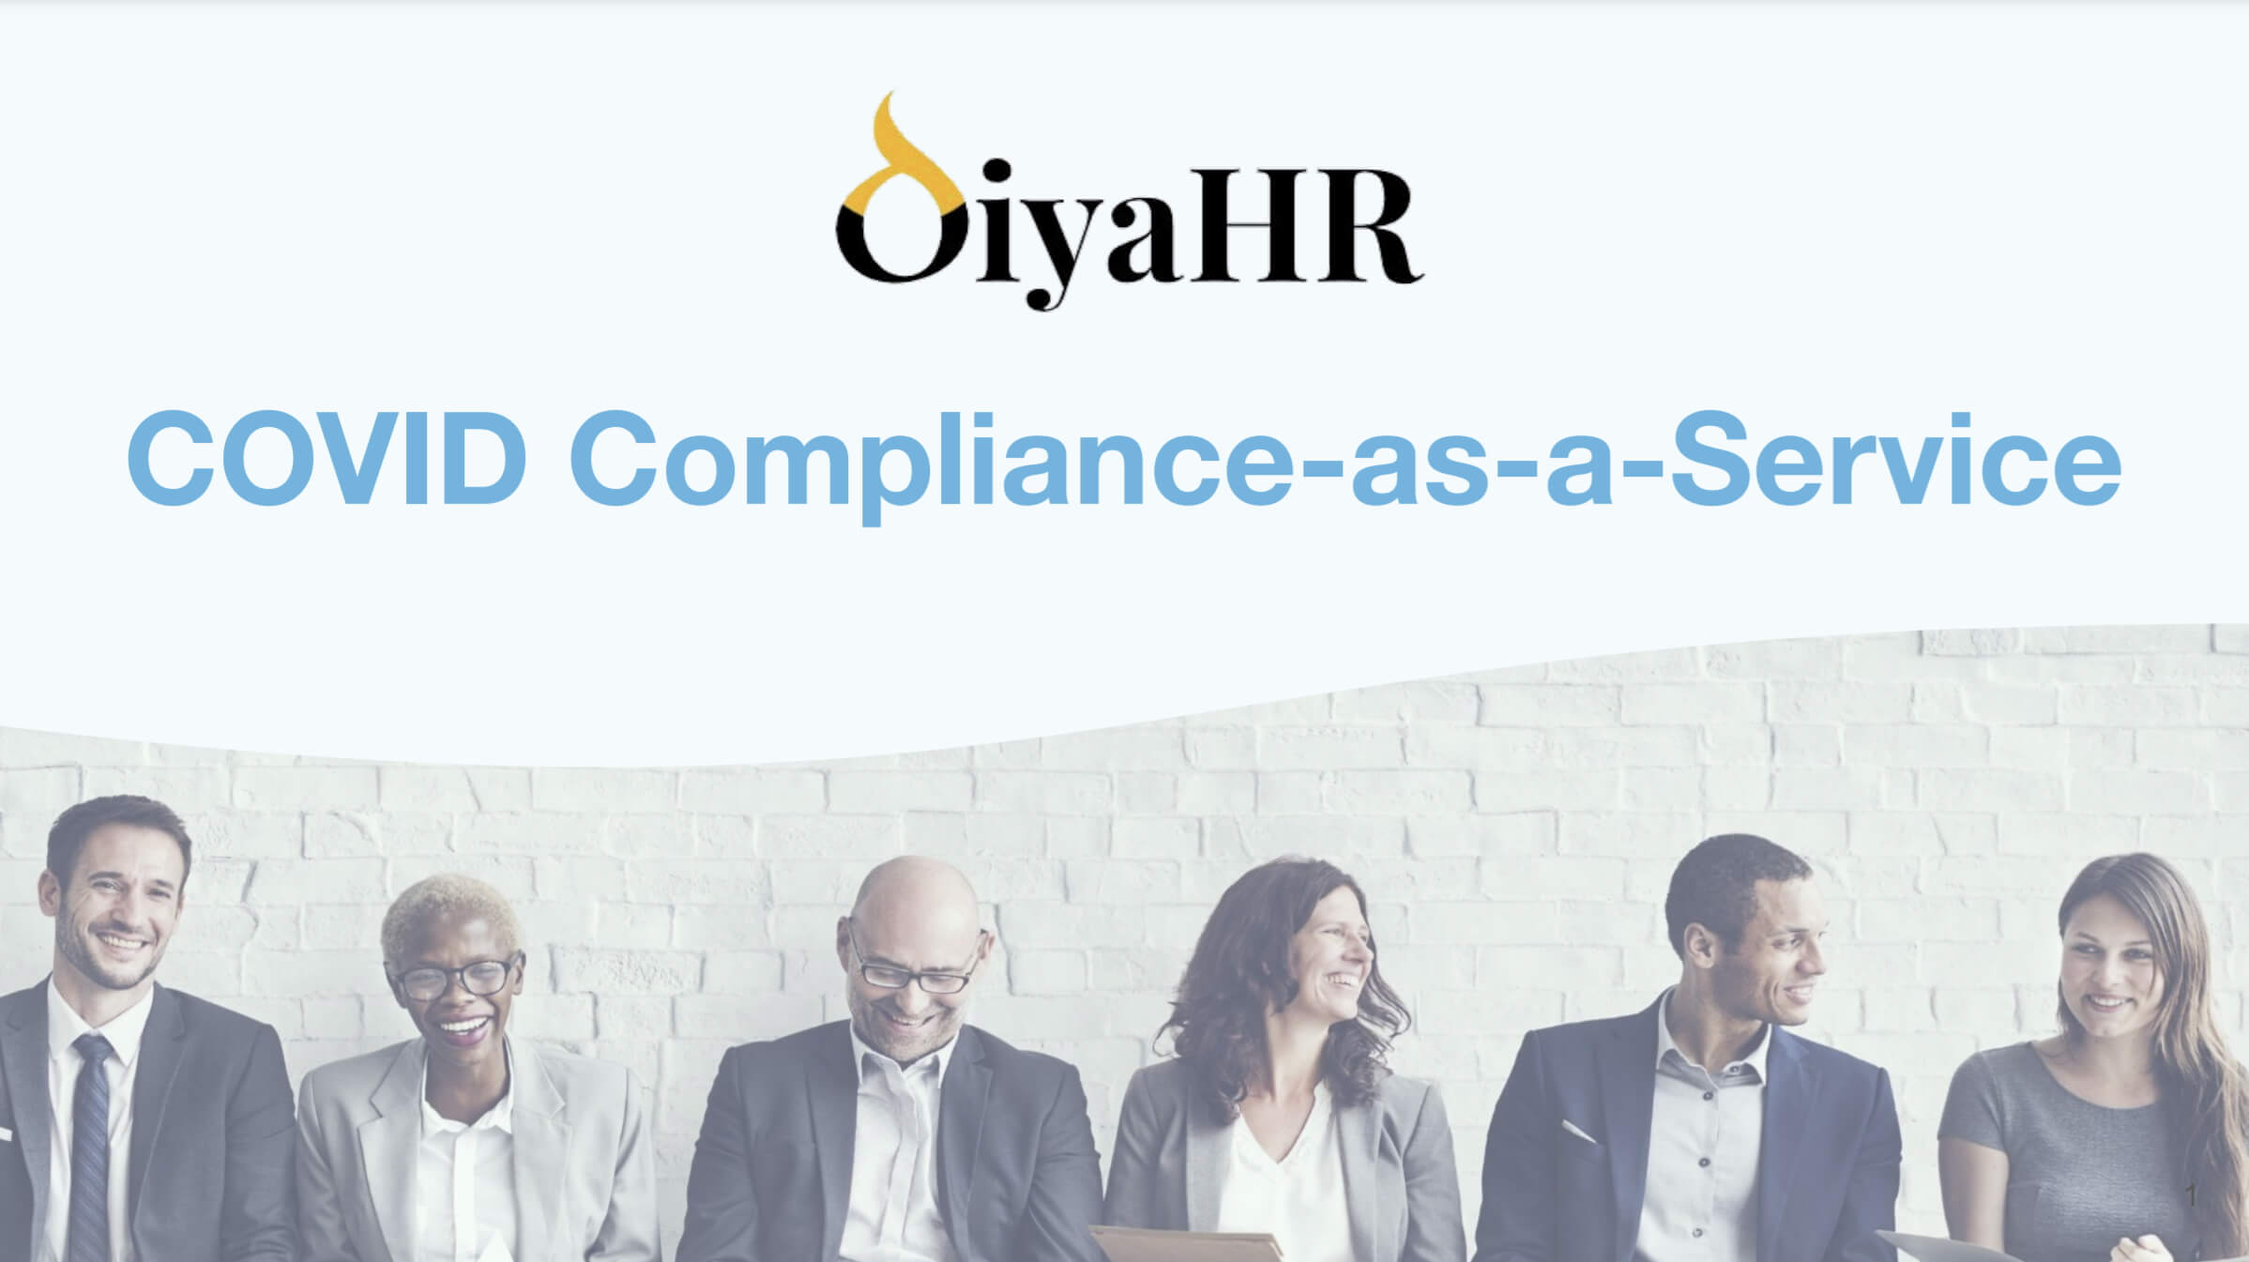
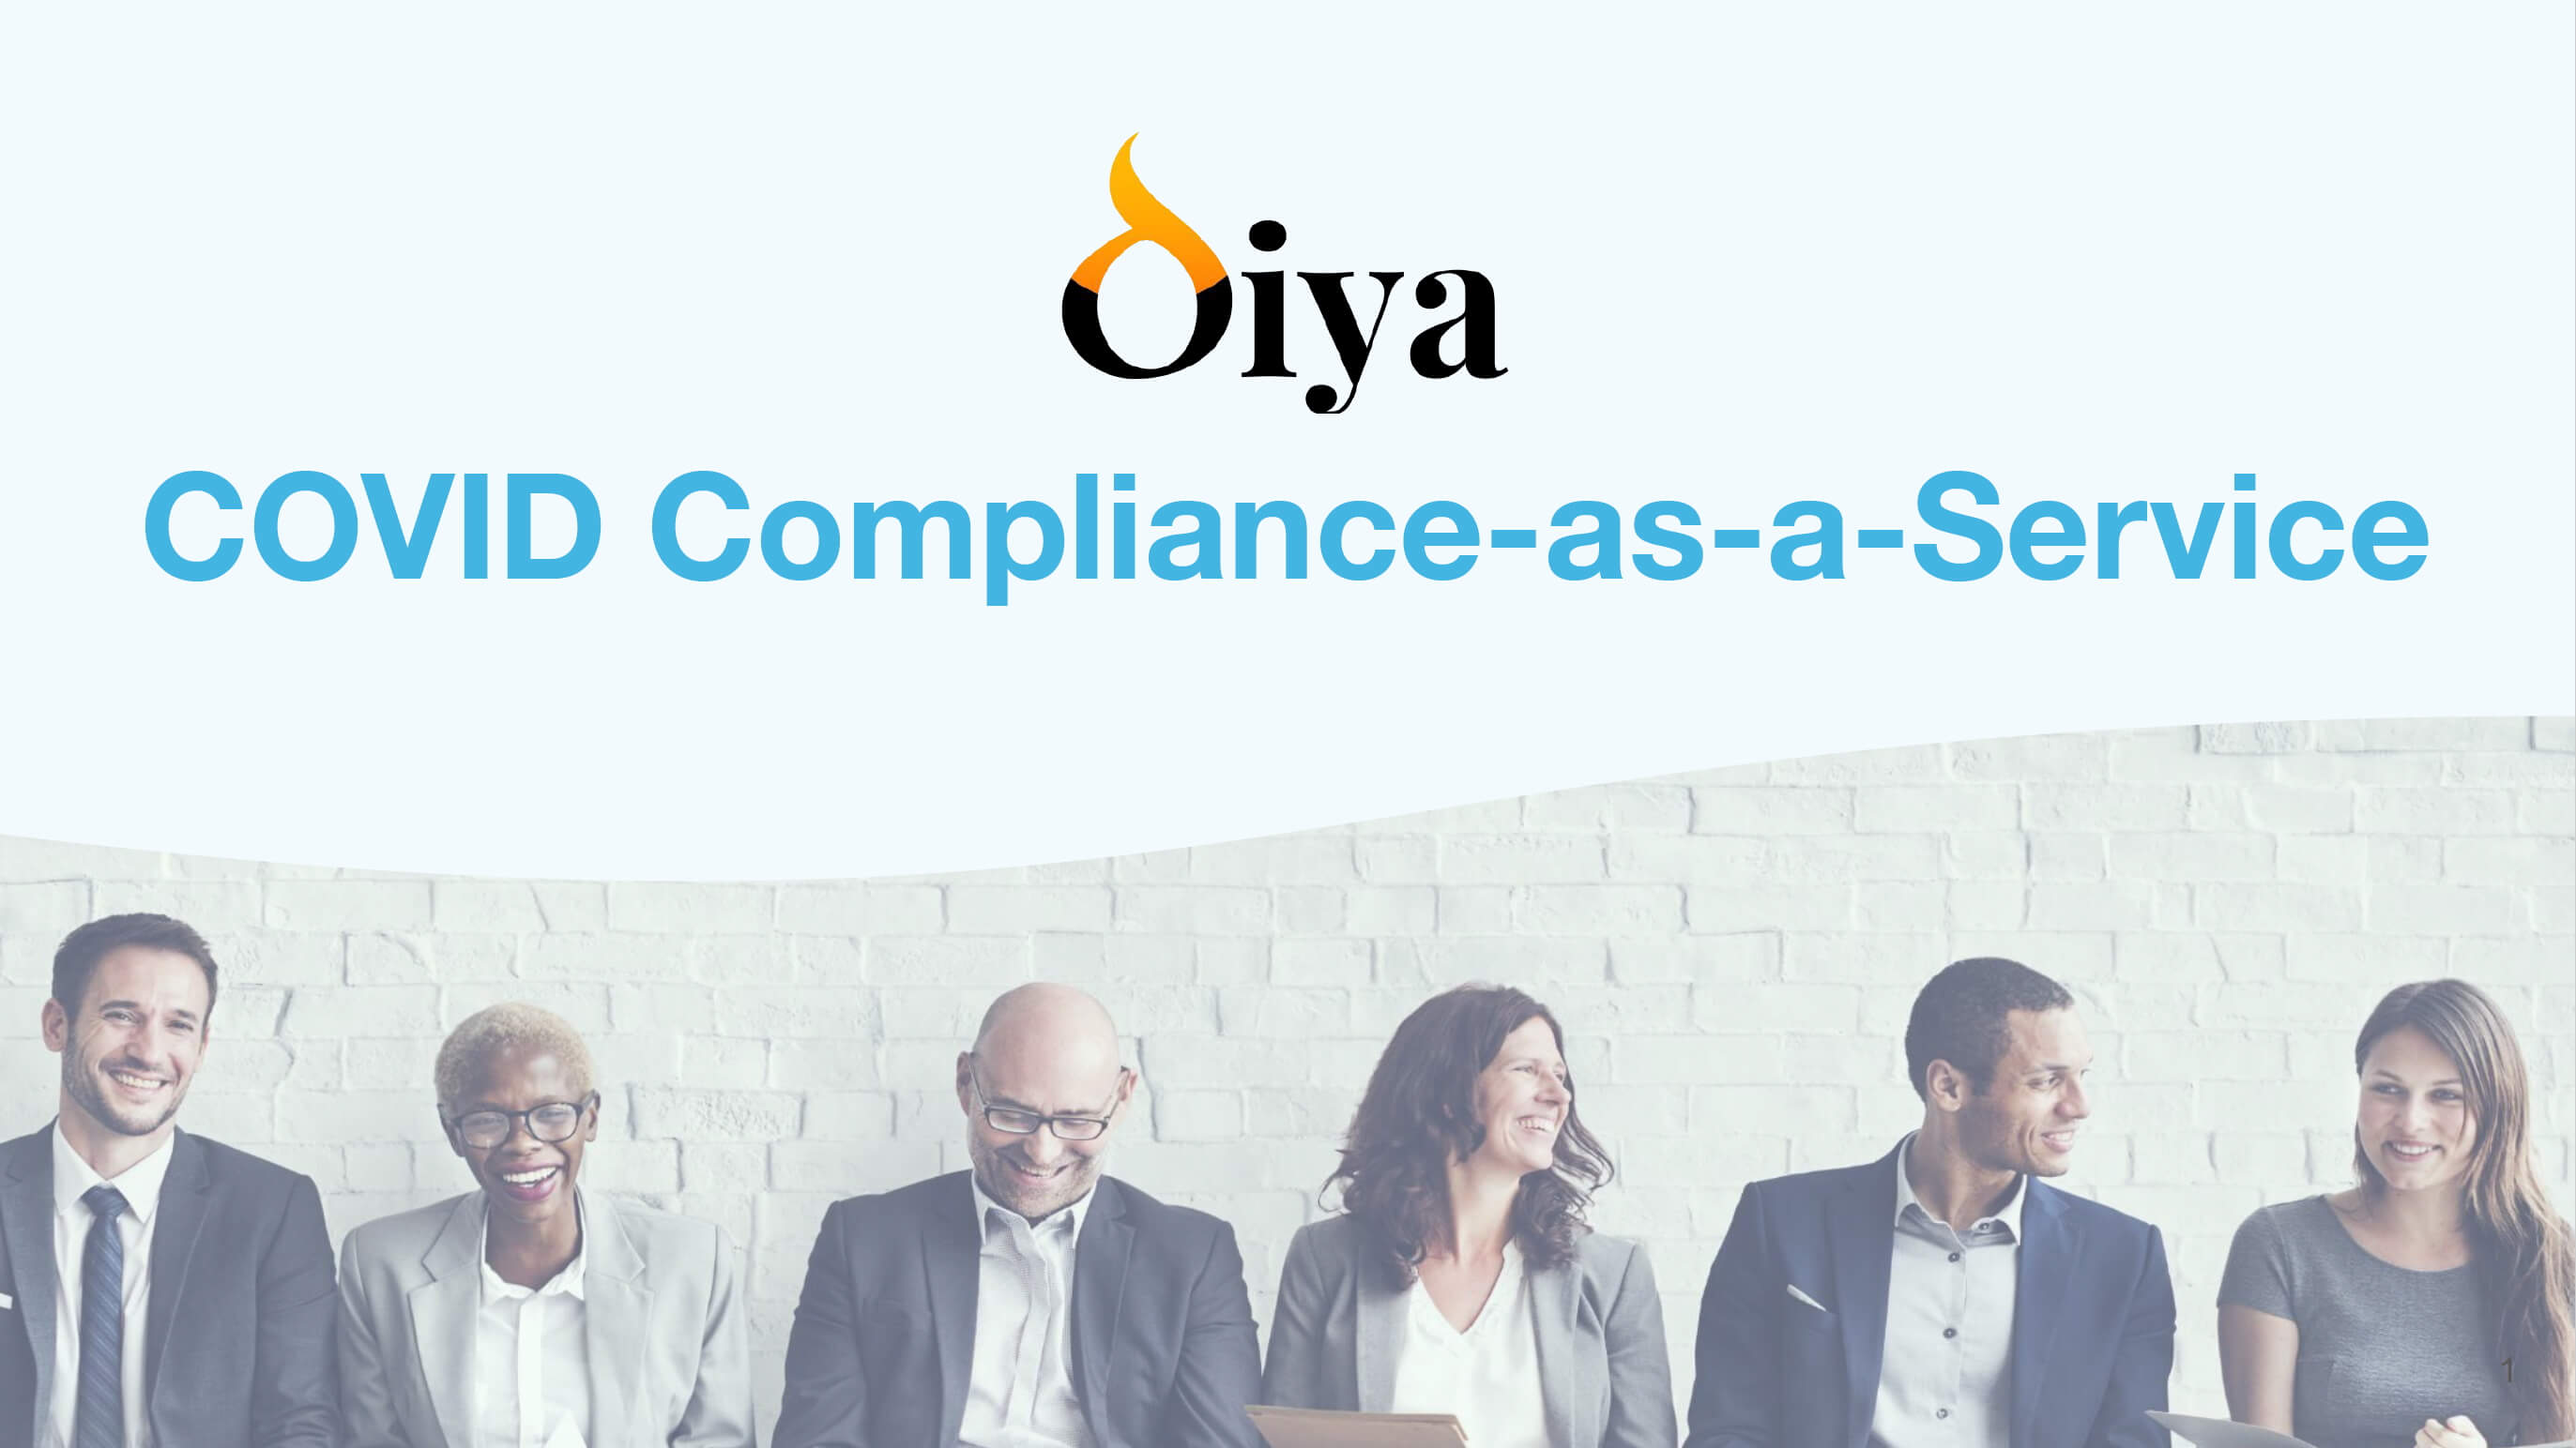
DIYA-1916 Rollback style changes.  Replace image for e-cover with proper aspect ration.

diff --git a/src/styles/pages/main-page.scss b/src/styles/pages/main-page.scss
@@ -8,13 +8,6 @@
     }
 }
 
-.info-custom {
-    @media screen and (max-width: $break-tablet) {
-        aspect-ratio: 17/9 !important;
-    }
-}
-
-
 .card-press {
     @media screen and (max-width: $break-tablet) {
         width: 100%;
